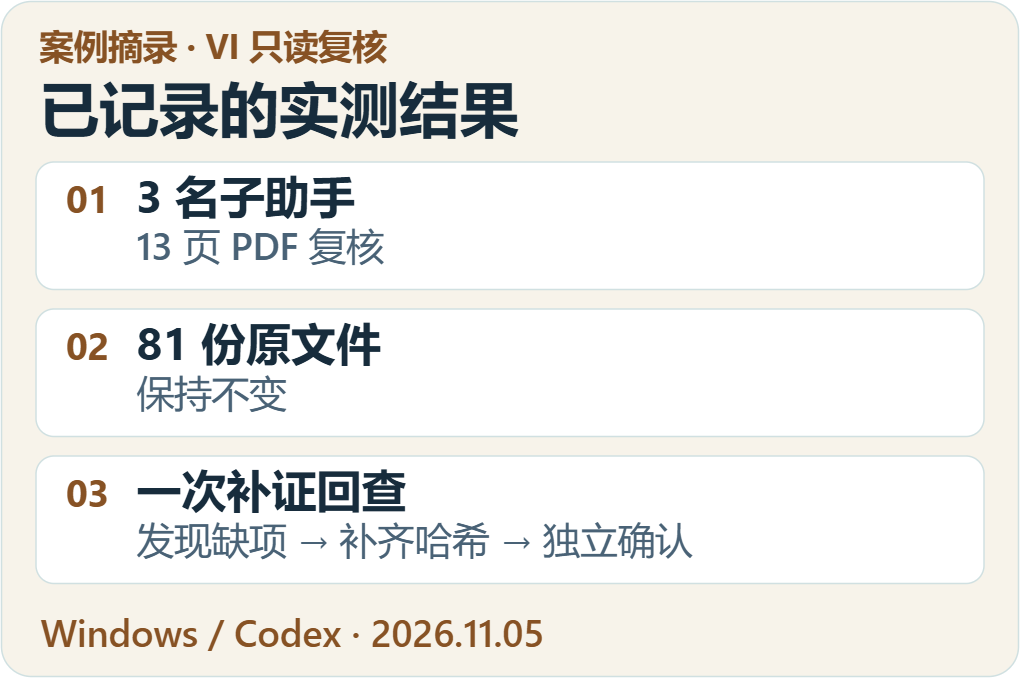
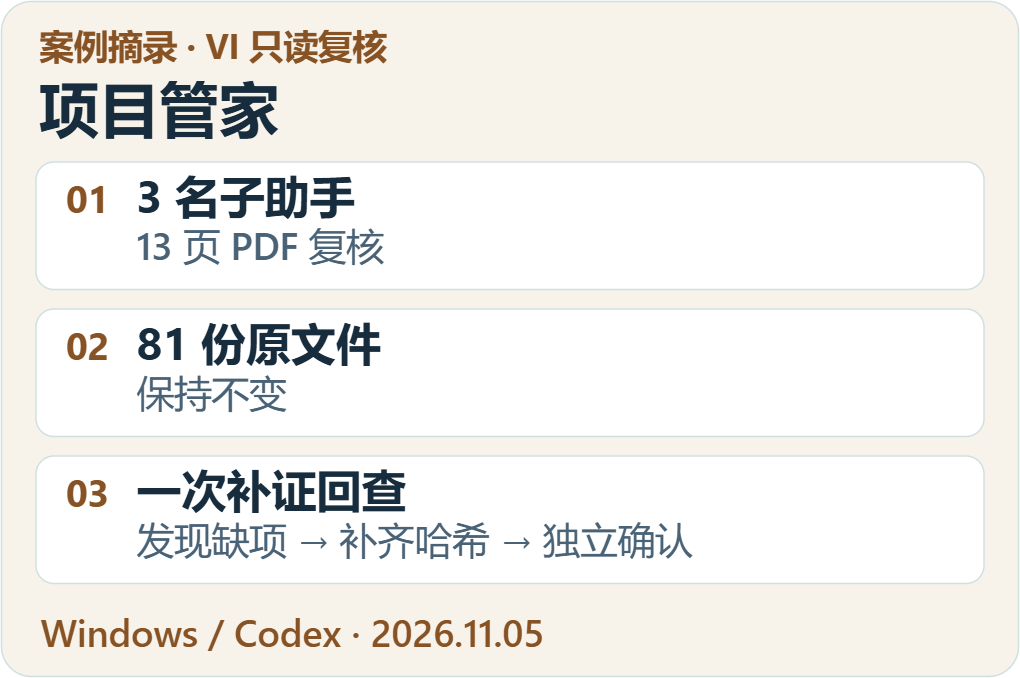
Release project-manager 1.0.1 documentation and artwork

Changed region(s): [[0.0304, 0.1239, 0.5167, 0.2168]]

diff --git a/skills/project-manager/README.md b/skills/project-manager/README.md
@@ -17,7 +17,7 @@ The coordinator owns the goal and integration. Shared artifacts and stateful ses
 
 [Codex prompt](../../docs/installation.md) · [Claude Code prompt](../../docs/installation.md) · [WorkBuddy upload](../../docs/installation.md)
 
-[Download standalone ZIP](https://github.com/xmonk888-art/xualab/releases/download/project-manager-v1.0.0/project-manager-1.0.0.zip) · [Release notes](https://github.com/xmonk888-art/xualab/releases/tag/project-manager-v1.0.0). Other clients have documentation-based instructions, not installation tests.
+[Download standalone ZIP](https://github.com/xmonk888-art/xualab/releases/download/project-manager-v1.0.1/project-manager-1.0.1.zip) · [Release notes](https://github.com/xmonk888-art/xualab/releases/tag/project-manager-v1.0.1). Other clients have documentation-based instructions, not installation tests.
 
 ## Start in five steps
 
@@ -96,6 +96,6 @@ Specialist skills, tools, fonts, software, and credentials come from the target 
 
 ## Runtime and license
 
-Runtime version remains **1.0.0**. Only `SKILL.md`, `agents/openai.yaml`, and `references/records-and-handoff.md` are required; artwork and cases are reader documentation.
+Current release: **1.0.1**. Only `SKILL.md`, `agents/openai.yaml`, and `references/records-and-handoff.md` are required; artwork and cases are reader documentation.
 
 Licensed under MIT. Copyright (c) 2026 xmonk888-art. [MIT and scope](../../LICENSE-STATUS.md) · [Changelog](CHANGELOG.md) · [Portability (中文)](../../docs/portability.md)

diff --git a/skills/project-manager/README.zh-CN.md b/skills/project-manager/README.zh-CN.md
@@ -17,7 +17,7 @@
 
 [Codex 一段话安装](../../docs/installation.md) · [Claude Code 一段话安装](../../docs/installation.md) · [WorkBuddy 上传包](../../docs/installation.md)
 
-[下载单技能 ZIP](https://github.com/xmonk888-art/xualab/releases/download/project-manager-v1.0.0/project-manager-1.0.0.zip) · [版本说明](https://github.com/xmonk888-art/xualab/releases/tag/project-manager-v1.0.0)。其他客户端仅核对了官方加载方式，尚未实装。
+[下载单技能 ZIP](https://github.com/xmonk888-art/xualab/releases/download/project-manager-v1.0.1/project-manager-1.0.1.zip) · [版本说明](https://github.com/xmonk888-art/xualab/releases/tag/project-manager-v1.0.1)。其他客户端仅核对了官方加载方式，尚未实装。
 
 ## 五步开始使用
 
@@ -95,6 +95,6 @@
 
 ## 运行文件与许可
 
-版本仍为 **1.0.0**。运行只需 `SKILL.md`、`agents/openai.yaml`、`references/records-and-handoff.md`，图和案例供人阅读。
+当前发布版本为 **1.0.1**。运行只需 `SKILL.md`、`agents/openai.yaml`、`references/records-and-handoff.md`，图和案例供人阅读。
 
 采用 MIT 许可证，版权署名为 xmonk888-art。[MIT 与许可范围](../../LICENSE-STATUS.md) · [版本记录](CHANGELOG.md) · [迁移说明](../../docs/portability.md)

diff --git a/README.md b/README.md
@@ -15,7 +15,7 @@ You do not need the whole library. Open the skill page, obtain its three runtime
 
 ## Copy an install prompt
 
-One-paragraph setup prompts are provided for local Codex and Claude Code. WorkBuddy custom skills use its package-upload flow. [Standalone ZIP](https://github.com/xmonk888-art/xualab/releases/download/project-manager-v1.0.0/project-manager-1.0.0.zip) · [Release notes](https://github.com/xmonk888-art/xualab/releases/tag/project-manager-v1.0.0).
+One-paragraph setup prompts are provided for local Codex and Claude Code. WorkBuddy custom skills use its package-upload flow. [Standalone ZIP](https://github.com/xmonk888-art/xualab/releases/download/project-manager-v1.0.1/project-manager-1.0.1.zip) · [Release notes](https://github.com/xmonk888-art/xualab/releases/tag/project-manager-v1.0.1).
 
 [Client-specific setup guide (中文)](docs/installation.md)
 

diff --git a/cases/vi-readonly-20261105/README.md b/cases/vi-readonly-20261105/README.md
@@ -10,7 +10,7 @@
 
 ## 实测速览
 
-<p align="center"><a href="../../assets/diagrams/case-vi.zh-CN.svg"><picture><source media="(max-width: 600px)" srcset="../../assets/diagrams/case-vi.mobile.zh-CN.png"><img src="../../assets/diagrams/case-vi.zh-CN.png" alt="VI 只读实测：三名子助手、十三页PDF、八十一份原文件不变和一次报告补证回查" width="960"></picture></a></p>
+<p align="center"><a href="../../assets/overview/review-evidence.zh-CN.svg"><picture><source media="(max-width: 600px)" srcset="../../assets/overview/review-evidence.mobile.zh-CN.png"><img src="../../assets/overview/review-evidence.zh-CN.png" alt="VI 只读实测：三名子助手、十三页PDF、八十一份原文件不变和一次报告补证回查" width="960"></picture></a></p>
 
 图为根据既有记录绘制的摘要，未使用客户素材或原软件截图。
 

diff --git a/docs/installation.md b/docs/installation.md
@@ -4,7 +4,7 @@
 
 ## 获取单个技能
 
-[下载 project-manager 1.0.0 单技能 ZIP](https://github.com/xmonk888-art/xualab/releases/download/project-manager-v1.0.0/project-manager-1.0.0.zip) · [版本说明与附件](https://github.com/xmonk888-art/xualab/releases/tag/project-manager-v1.0.0)
+[下载 project-manager 1.0.1 单技能 ZIP](https://github.com/xmonk888-art/xualab/releases/download/project-manager-v1.0.1/project-manager-1.0.1.zip) · [版本说明与附件](https://github.com/xmonk888-art/xualab/releases/tag/project-manager-v1.0.1)
 
 单技能附件只包含 project-manager 及其说明，不必安装整个总库。也可从仓库 `skills/project-manager/` 取得三个运行文件与 LICENSE。GitHub 的“Download ZIP”取得整个总库，WorkBuddy 请使用这里的单技能附件。
 

diff --git a/CHANGELOG.md b/CHANGELOG.md
@@ -2,6 +2,11 @@
 
 总库逐项记录技能和资料变化；技能版本以各自 `SKILL.md` 和技能内版本记录为准，不把总库资料修订自动当成所有技能升级。
 
+## 1.0.1 · 文档与配图
+
+- 首页首屏、技能说明和实测区使用统一技能名称的配图，提供中英文桌面版和手机版。
+- 单技能 ZIP 的介绍、配图和下载入口同步到本版。
+
 ## 1.0.0 · 首发内容
 
 - 2026-11-06：根据用户确定的命名，将技能更名为 project-manager · 项目管家。总库仍为 xualab；更名不增加运行或跨客户端验证结论。

diff --git a/skills/project-manager/SKILL.md b/skills/project-manager/SKILL.md
@@ -2,7 +2,7 @@
 name: project-manager
 description: "从已知对话与项目资料恢复状态，组织按需员工分工、已有技能调用、成果验收及跨电脑交接。用于用户要求小团队自主推进、多个技能协作、接手复杂项目或持续项目续作；根据本次授权区分讨论、只读和执行。简单单步任务直接由相应技能完成，不强制组队。"
 metadata:
-  version: "1.0.0"
+  version: "1.0.1"
 ---
 
 # 项目管家

diff --git a/skills/project-manager/CHANGELOG.md b/skills/project-manager/CHANGELOG.md
@@ -1,5 +1,11 @@
 # project-manager 版本记录
 
+## 1.0.1 · 文档与配图
+
+- 中英文说明在安装前展示工作看板，实测区使用新版复核摘要。
+- 单技能 ZIP 携带说明引用的桌面图、手机图和 SVG 源稿。
+- 本次版本更新覆盖文档、配图和版本标识。已有实测仍对应首发前的只读协作记录。
+
 ## 1.0.0 · 首发内容
 
 ### 已具备

diff --git a/docs/validation.md b/docs/validation.md
@@ -1,6 +1,6 @@
 # 验证记录与能力边界
 
-当前技能版本：**1.0.0**。这里区分设计核验、创建检查和真实运行，避免把不同阶段的结论混用。
+当前发布版本为 **1.0.1**。下述真实运行发生于首发前，使用更名前的技能标识。这里区分设计核验、创建检查和真实运行，避免把不同阶段的结论混用。
 
 ## 已有证据
 
